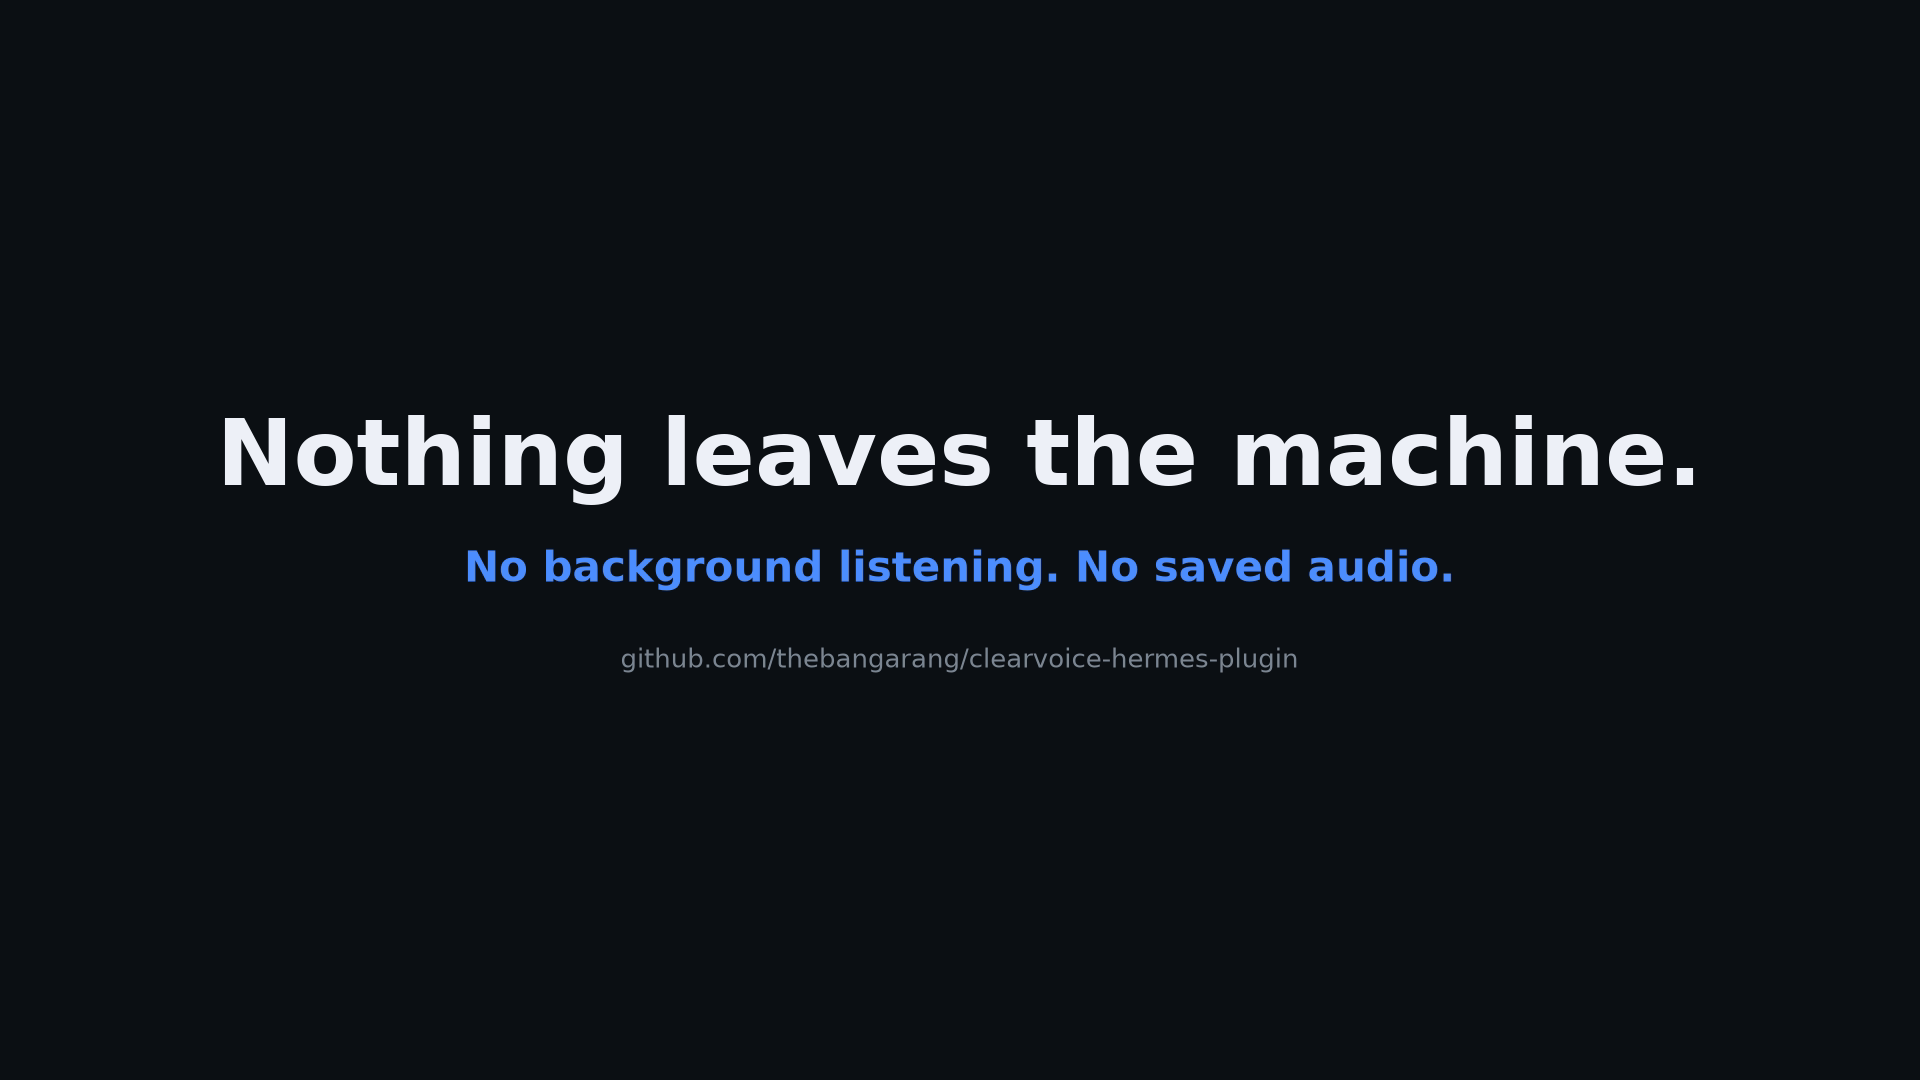
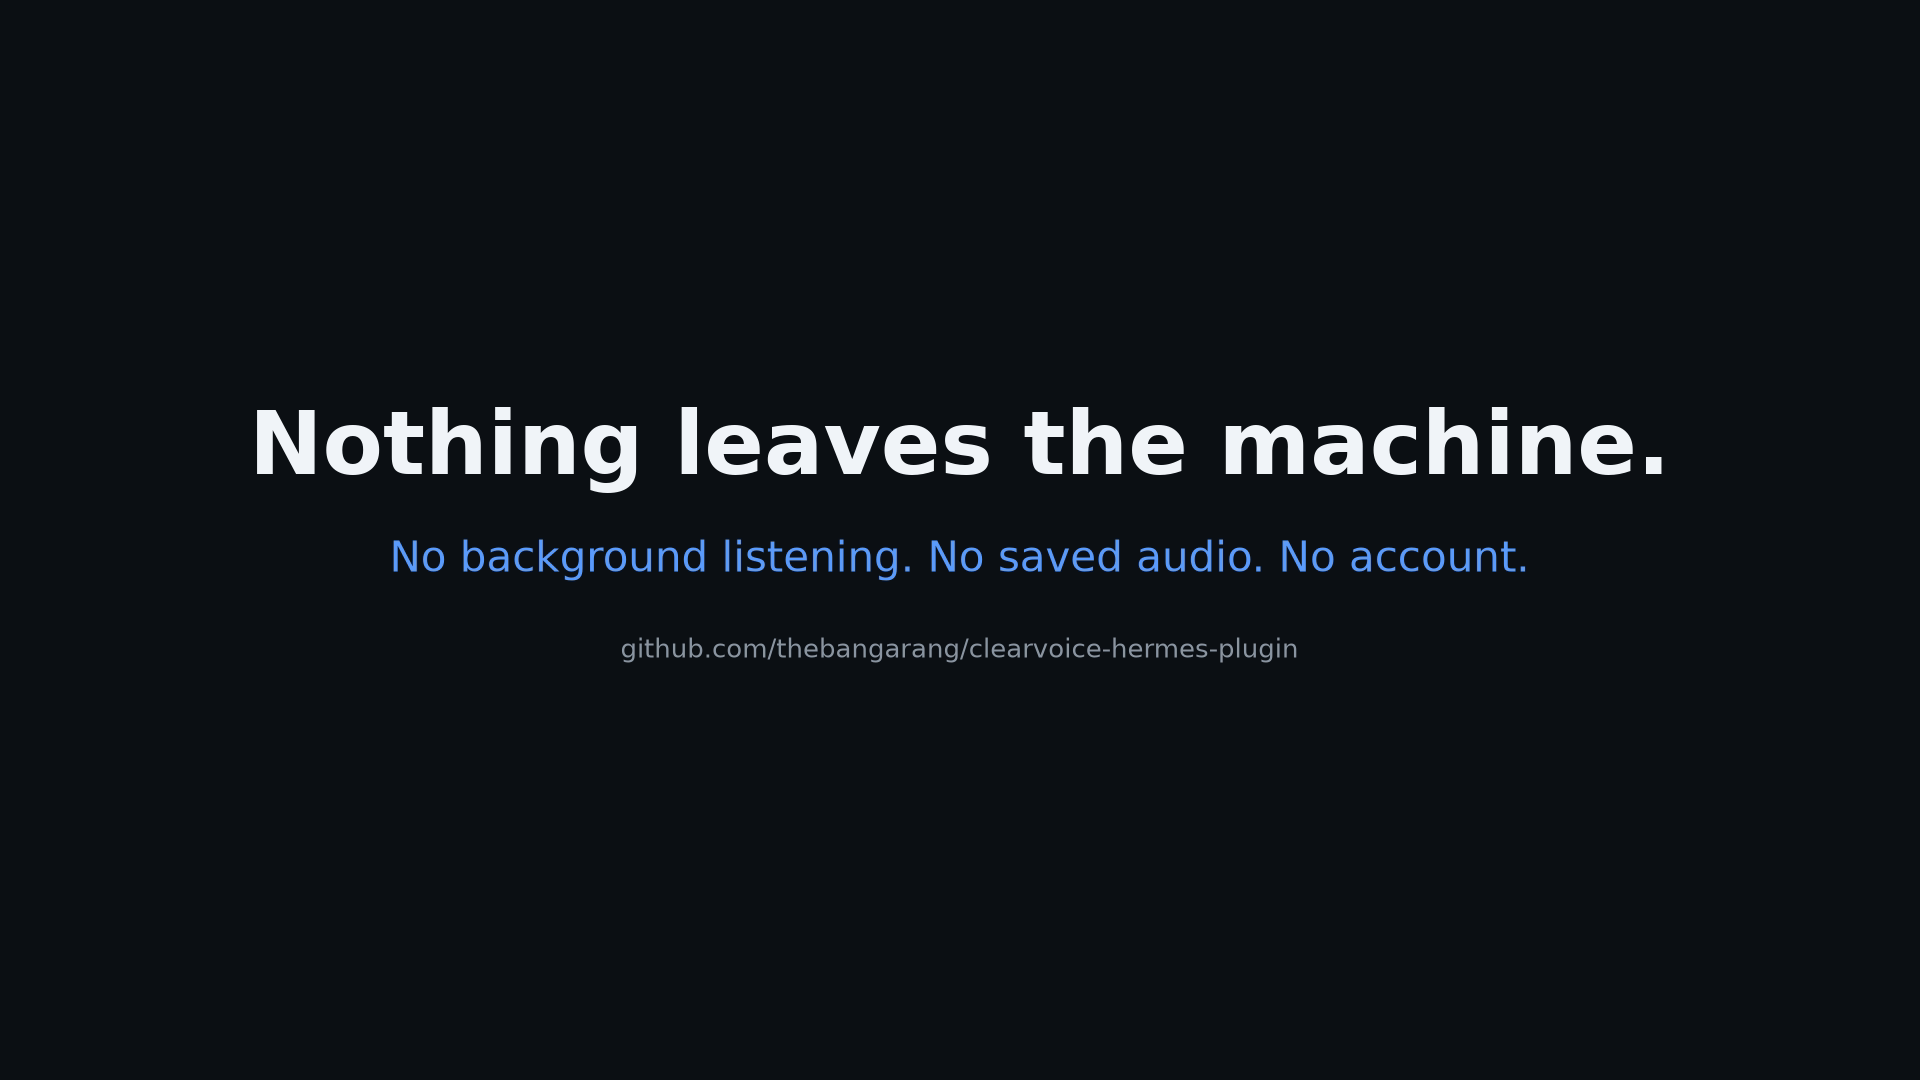
Demo montage: three style takes, trimmed off the OBS UI automatically
The user recorded three takes (verbatim / literal / courteous) with the OBS window
visible at the head and tail of each. scripts/montage_demo.py:

- finds each clip's first and last sound with silencedetect and trims there
  (0.15 s guard before, 0.45 s after), so a re-record works without new offsets;
- labels each segment: a numbered style badge top-left, a one-line explanation
  and a note for the first 7.5 s;
- title card (3 s) -> verbatim -> literal -> courteous -> end card (5 s);
- normalises to 1080p30, AAC 160k, +faststart, loudnorm I=-16 for phone playback.

Result: 51.5 s, 2.0 MB. Verified on extracted frames that no OBS panel survives the
trim and that badges and captions are legible.

Order is a flag (--order), the wording lives in the STYLES table, and the file is
regenerated by one command, so a reshoot costs nothing.

Changed region(s): [[0.0938, 0.3667, 0.9062, 0.55], [0.3125, 0.5806, 0.6875, 0.6417]]

diff --git a/scripts/montage_demo.py b/scripts/montage_demo.py
@@ -1,0 +1,246 @@
+#!/usr/bin/env python3
+"""Montage the three style takes into one demo, trimming the OBS UI off each.
+
+Each source clip starts and ends on the OBS window before the ClearVoice pane is
+shown. The trim points are taken from the audio: the first and last sound in each
+clip is where the demo actually begins and ends, with a small guard band. No fixed
+offsets, so a re-record works the same way.
+
+Then it wraps the three in a title card and an end card, labels each style, and
+writes one 1080p30 file with the original audio untouched.
+
+    python3 scripts/montage_demo.py                    # uses ~/Videos/*.mkv
+    python3 scripts/montage_demo.py --order courteous,literal,verbatim
+"""
+
+from __future__ import annotations
+
+import argparse
+import json
+import re
+import shutil
+import subprocess
+import sys
+import tempfile
+from pathlib import Path
+
+HERE = Path(__file__).resolve().parent.parent
+DEMO = HERE / "demo"
+FONT = "/usr/share/fonts/truetype/dejavu/DejaVuSans-Bold.ttf"
+FONT_REGULAR = "/usr/share/fonts/truetype/dejavu/DejaVuSans.ttf"
+
+TITLE_SECONDS = 3.0
+END_SECONDS = 5.0
+GUARD_START = 0.15   # start this much before the first sound
+GUARD_END = 0.45     # keep this much after the last sound
+
+STYLES = {
+    "verbatim": {
+        "file": "Verbatim.mkv",
+        "badge": "1  VERBATIM",
+        "line": "Exactly your words — only capital and full stop added.",
+        "note": "Nothing was re-ordered, replaced or invented.",
+    },
+    "literal": {
+        "file": "Litteral.mkv",
+        "badge": "2  LITERAL",
+        "line": "Your words, put into a plain order.",
+        "note": "No politeness added, no meaning changed.",
+    },
+    "courteous": {
+        "file": "Courteous.mkv",
+        "badge": "3  COURTEOUS",
+        "line": "The same request, rebuilt as a polite sentence.",
+        "note": "Checked grammar from the rule pack - not a model guessing.",
+    },
+}
+
+
+def run(cmd: list[str]) -> subprocess.CompletedProcess:
+    return subprocess.run(cmd, capture_output=True, text=True)
+
+
+def duration_of(path: Path) -> float:
+    out = run(["ffprobe", "-v", "error", "-show_entries", "format=duration",
+               "-of", "csv=p=0", str(path)]).stdout.strip()
+    return float(out or 0)
+
+
+def sound_span(path: Path, noise_db: int = -32, min_silence: float = 0.35) -> tuple[float, float]:
+    """First and last moment with sound in the clip."""
+    total = duration_of(path)
+    log = run(["ffmpeg", "-hide_banner", "-i", str(path), "-af",
+               f"silencedetect=noise={noise_db}dB:d={min_silence}", "-f", "null", "-"]).stderr
+
+    silences: list[tuple[float, float]] = []
+    pending: float | None = None
+    for line in log.splitlines():
+        start = re.search(r"silence_start:\s*(-?[\d.]+)", line)
+        if start:
+            pending = max(0.0, float(start.group(1)))
+            continue
+        end = re.search(r"silence_end:\s*([\d.]+)", line)
+        if end and pending is not None:
+            silences.append((pending, min(total, float(end.group(1)))))
+            pending = None
+    if pending is not None:
+        silences.append((pending, total))
+
+    first_sound = 0.0
+    for start, end in silences:
+        if start <= 0.05:
+            first_sound = end
+        else:
+            break
+
+    # OBS often stops a fraction before the file ends, so the trailing silence is
+    # not exactly "to the end" — a 0.4 s tolerance is what makes the tail trim fire.
+    last_sound = total
+    for start, end in reversed(silences):
+        if end >= total - 0.4:
+            last_sound = start
+        else:
+            break
+
+    begin = max(0.0, first_sound - GUARD_START)
+    finish = min(total, last_sound + GUARD_END)
+    if finish - begin < 1.0:  # a clip with no detectable pause: keep it whole
+        return 0.0, total
+    return begin, finish
+
+
+def card(out: Path, title: str, subtitle: str, footnote: str) -> None:
+    draw = (
+        f"drawtext=fontfile={FONT}:text='{title}':fontcolor=0xf2f5f8:fontsize=88:"
+        f"x=(w-text_w)/2:y=(h-text_h)/2-90,"
+        f"drawtext=fontfile={FONT_REGULAR}:text='{subtitle}':fontcolor=0x5b9dff:fontsize=42:"
+        f"x=(w-text_w)/2:y=(h-text_h)/2+20,"
+        f"drawtext=fontfile={FONT_REGULAR}:text='{footnote}':fontcolor=0x8b96a3:fontsize=26:"
+        f"x=(w-text_w)/2:y=(h-text_h)/2+110"
+    )
+    run(["ffmpeg", "-y", "-loglevel", "error", "-f", "lavfi",
+         "-i", "color=c=0x0d1014:s=1920x1080:r=30", "-frames:v", "1",
+         "-vf", draw, str(out)])
+
+
+def still(path: Path, seconds: float, out: Path) -> None:
+    run(["ffmpeg", "-y", "-loglevel", "error", "-loop", "1", "-t", f"{seconds:.2f}",
+         "-i", str(path), "-f", "lavfi", "-t", f"{seconds:.2f}",
+         "-i", "anullsrc=channel_layout=stereo:sample_rate=48000",
+         "-vf", "scale=1920:1080,setsar=1,fps=30,format=yuv420p",
+         "-c:v", "libx264", "-preset", "veryfast", "-crf", "20",
+         "-c:a", "aac", "-b:a", "160k", "-ar", "48000", "-ac", "2",
+         "-shortest", str(out)])
+
+
+def segment(source: Path, begin: float, end: float, style: dict, out: Path) -> None:
+    """One trimmed clip, labelled with its style and a one-line explanation."""
+    badge = (
+        f"drawtext=fontfile={FONT}:text='{style['badge']}':fontcolor=0x5b9dff:fontsize=34:"
+        f"x=48:y=44:box=1:boxcolor=0x0d1014@0.72:boxborderw=14"
+    )
+    line = (
+        f"drawtext=fontfile={FONT_REGULAR}:text='{style['line']}':fontcolor=0xf2f5f8:fontsize=40:"
+        f"x=(w-text_w)/2:y=h-150:box=1:boxcolor=0x0d1014@0.78:boxborderw=18:enable='between(t,0.25,7.5)'"
+    )
+    note = (
+        f"drawtext=fontfile={FONT_REGULAR}:text='{style['note']}':fontcolor=0x8b96a3:fontsize=28:"
+        f"x=(w-text_w)/2:y=h-92:box=1:boxcolor=0x0d1014@0.78:boxborderw=16:enable='between(t,0.25,7.5)'"
+    )
+    chain = ",".join([
+        "scale=1920:1080:force_original_aspect_ratio=decrease",
+        "pad=1920:1080:(ow-iw)/2:(oh-ih)/2",
+        "setsar=1", "fps=30", badge, line, note,
+    ])
+    result = run(["ffmpeg", "-y", "-loglevel", "error",
+                  "-ss", f"{begin:.3f}", "-to", f"{end:.3f}", "-i", str(source),
+                  "-vf", chain, "-af", "aresample=48000:async=1",
+                  "-c:v", "libx264", "-preset", "veryfast", "-crf", "20", "-pix_fmt", "yuv420p",
+                  "-c:a", "aac", "-b:a", "160k", "-ar", "48000", "-ac", "2", str(out)])
+    if result.returncode != 0 or not out.is_file():
+        print(result.stderr.strip()[-800:], file=sys.stderr)
+        raise SystemExit(f"could not encode {source.name}")
+
+
+def main() -> int:
+    parser = argparse.ArgumentParser(description=__doc__)
+    parser.add_argument("--dir", default=str(Path.home() / "Videos"))
+    parser.add_argument("--order", default="verbatim,literal,courteous")
+    parser.add_argument("--out", default=str(DEMO / "clearvoice-demo.mp4"))
+    args = parser.parse_args()
+
+    source_dir = Path(args.dir).expanduser()
+    order = [name.strip() for name in args.order.split(",") if name.strip() in STYLES]
+    if not order:
+        raise SystemExit(f"No known styles. Expected a subset of {sorted(STYLES)}.")
+
+    if not shutil.which("ffmpeg"):
+        raise SystemExit("ffmpeg is required")
+
+    DEMO.mkdir(parents=True, exist_ok=True)
+    work = Path(tempfile.mkdtemp(prefix="cv-montage-"))
+    parts: list[Path] = []
+    report = []
+
+    try:
+        card(DEMO / "title.png", "ClearVoice",
+             "One recording, three ways to say it.",
+             "All of it on this machine · no account · nothing saved")
+        title_clip = work / "00-title.mp4"
+        still(DEMO / "title.png", TITLE_SECONDS, title_clip)
+        parts.append(title_clip)
+
+        for index, name in enumerate(order, start=1):
+            spec = STYLES[name]
+            source = source_dir / spec["file"]
+            if not source.is_file():
+                raise SystemExit(f"missing recording: {source}")
+            begin, end = sound_span(source)
+            piece = work / f"{index:02d}-{name}.mp4"
+            segment(source, begin, end, spec, piece)
+            parts.append(piece)
+            report.append({
+                "style": name,
+                "source": source.name,
+                "trim": [round(begin, 2), round(end, 2)],
+                "kept_s": round(end - begin, 2),
+            })
+            print(f"{name:10s} trimmed to {end - begin:5.1f}s  ({begin:5.2f} -> {end:5.2f})")
+
+        card(DEMO / "endcard.png", "Nothing leaves the machine.",
+             "No background listening. No saved audio. No account.",
+             "github.com/thebangarang/clearvoice-hermes-plugin")
+        end_clip = work / "99-end.mp4"
+        still(DEMO / "endcard.png", END_SECONDS, end_clip)
+        parts.append(end_clip)
+
+        listing = work / "concat.txt"
+        listing.write_text("".join(f"file '{part}'\n" for part in parts), encoding="utf-8")
+
+        final = Path(args.out)
+        # Loudness-normalised to the web standard, so a phone speaker hears it.
+        result = run(["ffmpeg", "-y", "-loglevel", "error", "-f", "concat", "-safe", "0",
+                      "-i", str(listing), "-c:v", "libx264", "-preset", "medium", "-crf", "20",
+                      "-pix_fmt", "yuv420p", "-r", "30",
+                      "-af", "loudnorm=I=-16:TP=-1.5:LRA=11",
+                      "-c:a", "aac", "-b:a", "160k",
+                      "-movflags", "+faststart", str(final)])
+        if result.returncode != 0:
+            print(result.stderr.strip()[-1000:], file=sys.stderr)
+            raise SystemExit("concat failed")
+    finally:
+        shutil.rmtree(work, ignore_errors=True)
+
+    length = duration_of(Path(args.out))
+    print(json.dumps({
+        "file": str(Path(args.out)),
+        "duration_s": round(length, 1),
+        "size_mb": round(Path(args.out).stat().st_size / 1e6, 2),
+        "under_90s": length <= 90.5,
+        "segments": report,
+    }, indent=2))
+    return 0
+
+
+if __name__ == "__main__":
+    raise SystemExit(main())
